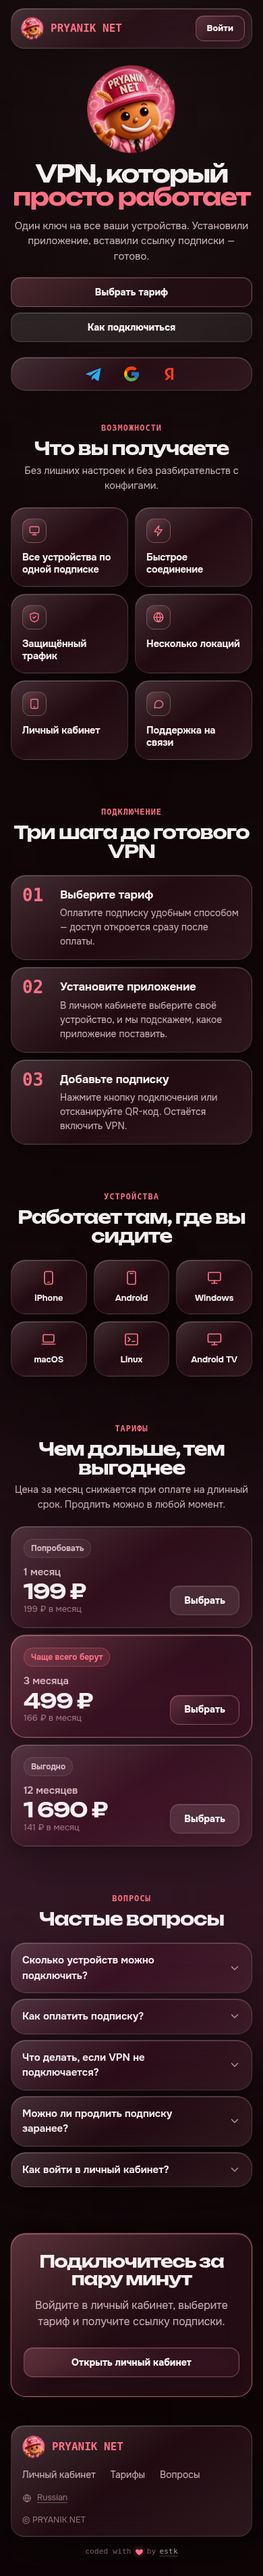
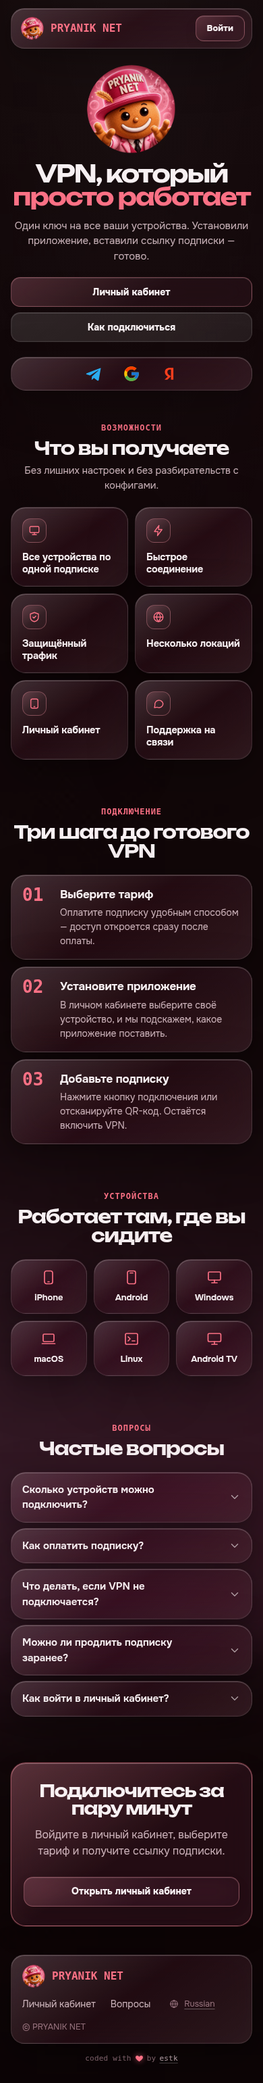
Remove pricing section from landing
Claude-Session: https://claude.ai/code/session_01LoewjAg2RbUAqsVYzxWfXA

diff --git a/pryanik-vpn/index.html b/pryanik-vpn/index.html
@@ -26,7 +26,6 @@
         <a href="#features">Возможности</a>
         <a href="#how">Подключение</a>
         <a href="#devices">Устройства</a>
-        <a href="#plans">Тарифы</a>
         <a href="#faq">Вопросы</a>
       </nav>
       <a class="btn btn-sm btn-primary" href="https://web.pryanik.net.pl/">Войти</a>
@@ -42,7 +41,7 @@
     <h1>VPN, который <em>просто работает</em></h1>
     <p class="lead">Один ключ на все ваши устройства. Установили приложение, вставили ссылку подписки — готово.</p>
     <div class="hero-actions">
-      <a class="btn btn-primary" href="#plans">Выбрать тариф</a>
+      <a class="btn btn-primary" href="https://web.pryanik.net.pl/">Личный кабинет</a>
       <a class="btn" href="#how">Как подключиться</a>
     </div>
     <p class="hero-note">Личный кабинет — через Telegram, Google или Яндекс</p>
@@ -164,54 +163,6 @@
   </div>
 </section>
 
-<section id="plans">
-  <div class="wrap">
-    <div class="head">
-      <div class="eyebrow">Тарифы</div>
-      <h2>Чем дольше, тем выгоднее</h2>
-      <p>Цена за месяц снижается при оплате на длинный срок. Продлить можно в любой момент.</p>
-    </div>
-    <div class="plans">
-      <article class="card hover plan">
-        <span class="tag">Попробовать</span>
-        <h3>1 месяц</h3>
-        <div class="price">199 ₽</div>
-        <div class="per">199 ₽ в месяц</div>
-        <ul>
-          <li><svg viewBox="0 0 24 24"><path d="m5 12 4.5 4.5L19 7"/></svg>Все устройства</li>
-          <li><svg viewBox="0 0 24 24"><path d="m5 12 4.5 4.5L19 7"/></svg>Все локации</li>
-          <li><svg viewBox="0 0 24 24"><path d="m5 12 4.5 4.5L19 7"/></svg>Поддержка</li>
-        </ul>
-        <a class="btn" href="https://web.pryanik.net.pl/">Выбрать</a>
-      </article>
-      <article class="card plan card-active">
-        <span class="tag">Чаще всего берут</span>
-        <h3>3 месяца</h3>
-        <div class="price">499 ₽</div>
-        <div class="per">166 ₽ в месяц</div>
-        <ul>
-          <li><svg viewBox="0 0 24 24"><path d="m5 12 4.5 4.5L19 7"/></svg>Все устройства</li>
-          <li><svg viewBox="0 0 24 24"><path d="m5 12 4.5 4.5L19 7"/></svg>Все локации</li>
-          <li><svg viewBox="0 0 24 24"><path d="m5 12 4.5 4.5L19 7"/></svg>Поддержка</li>
-        </ul>
-        <a class="btn btn-primary" href="https://web.pryanik.net.pl/">Выбрать</a>
-      </article>
-      <article class="card hover plan">
-        <span class="tag">Выгодно</span>
-        <h3>12 месяцев</h3>
-        <div class="price">1 690 ₽</div>
-        <div class="per">141 ₽ в месяц</div>
-        <ul>
-          <li><svg viewBox="0 0 24 24"><path d="m5 12 4.5 4.5L19 7"/></svg>Все устройства</li>
-          <li><svg viewBox="0 0 24 24"><path d="m5 12 4.5 4.5L19 7"/></svg>Все локации</li>
-          <li><svg viewBox="0 0 24 24"><path d="m5 12 4.5 4.5L19 7"/></svg>Поддержка</li>
-        </ul>
-        <a class="btn" href="https://web.pryanik.net.pl/">Выбрать</a>
-      </article>
-    </div>
-  </div>
-</section>
-
 <section id="faq">
   <div class="wrap">
     <div class="head">
@@ -266,7 +217,6 @@
       </a>
       <nav aria-label="Ссылки">
         <a href="https://web.pryanik.net.pl/">Личный кабинет</a>
-        <a href="#plans">Тарифы</a>
         <a href="#faq">Вопросы</a>
       </nav>
       <span class="lang">

diff --git a/pryanik-vpn/style.css b/pryanik-vpn/style.css
@@ -199,23 +199,6 @@ section{padding:72px 0}
 .device h3{font-size:14px}
 .device span{display:block;margin-top:2px;font-size:12px;color:var(--dim)}
 
-/* plans */
-.plans{display:grid;grid-template-columns:repeat(3,1fr);gap:14px;align-items:stretch}
-.plan{display:flex;flex-direction:column;padding:26px}
-.plan .tag{
-  align-self:flex-start;margin-bottom:18px;padding:4px 10px;border-radius:999px;font-size:12px;font-weight:700;color:var(--muted);
-  border:1px solid var(--lg-line-soft);background:rgba(255,255,255,.05);
-}
-.plan.card-active .tag{color:var(--accent);border-color:color-mix(in srgb,var(--accent) 34%,transparent);background:color-mix(in srgb,var(--accent) 12%,transparent)}
-.plan h3{font-size:15px;font-weight:600;color:var(--muted)}
-.price{margin:6px 0 4px;font-family:var(--font-display);font-weight:650;letter-spacing:-.05em;font-size:40px;line-height:1.05}
-.price small{font-family:var(--font-sans);font-weight:500;font-size:15px;letter-spacing:0;color:var(--dim)}
-.per{font-size:13px;color:var(--dim)}
-.plan ul{display:grid;gap:10px;margin:22px 0 26px;padding-top:22px;border-top:1px solid var(--lg-line-soft);font-size:14.5px;color:var(--muted)}
-.plan li{display:flex;gap:10px;align-items:flex-start}
-.plan li svg{flex:0 0 18px;width:18px;height:18px;margin-top:2px;stroke:var(--success);fill:none;stroke-width:2;stroke-linecap:round;stroke-linejoin:round}
-.plan .btn{margin-top:auto;width:100%}
-
 /* faq */
 .faq{display:grid;gap:10px;max-width:760px}
 .faq details{padding:0}
@@ -249,7 +232,7 @@ footer{padding:28px 0 48px}
 .copy{width:100%;font-size:12.5px;color:var(--dim)}
 
 @media (max-width:900px){
-  .grid-3,.plans,.steps{grid-template-columns:1fr}
+  .grid-3,.steps{grid-template-columns:1fr}
   .devices{grid-template-columns:repeat(3,1fr)}
   .nav{display:none}
   .header .btn{margin-left:auto}
@@ -285,13 +268,12 @@ footer{padding:28px 0 48px}
 .js .reveal{opacity:0;transform:translate3d(0,22px,0);transition:opacity .7s var(--lg-ease-soft),transform .7s var(--lg-ease),border-color var(--lg-motion) var(--lg-ease-soft),box-shadow var(--lg-slow) var(--lg-ease-soft),filter var(--lg-motion) var(--lg-ease-soft);transition-delay:var(--d,0ms)}
 .js .reveal.in{opacity:1;transform:none}
 .js .reveal.in.hover:hover{transform:translateY(-1px);transition-delay:0ms}
-.plan.card-active{animation:pulse 4.5s ease-in-out infinite}
 .device svg,.ico svg{transition:transform var(--lg-motion) var(--lg-ease)}
 .device:hover svg,.feature:hover .ico svg{transform:translateY(-2px) scale(1.08)}
 .faq details>p{animation:rise .35s var(--lg-ease) both}
 
 @media (prefers-reduced-motion:reduce){
-  .scene::before,.hero-mark,.hero h1,.hero .lead,.hero-actions,.hero-note,.providers,.header .bar,.plan.card-active,.faq details>p{animation:none}
+  .scene::before,.hero-mark,.hero h1,.hero .lead,.hero-actions,.hero-note,.providers,.header .bar,.faq details>p{animation:none}
   .js .reveal{opacity:1;transform:none;transition:none}
 }
 
@@ -333,15 +315,6 @@ footer{padding:28px 0 48px}
   .device svg{width:24px;height:24px;margin-bottom:8px}
   .device h3{font-size:13px}
   .device span{display:none}
-
-  .plans{gap:10px}
-  .plan{padding:18px;display:grid;grid-template-columns:1fr auto;align-items:center;column-gap:14px}
-  .plan .tag{grid-column:1/3;justify-self:start;margin-bottom:10px}
-  .plan h3{grid-column:1}
-  .plan .price{grid-column:1;font-size:30px;margin:2px 0 0}
-  .plan .per{grid-column:1}
-  .plan ul{display:none}
-  .plan .btn{grid-column:2;grid-row:2/5;width:auto;min-height:44px;padding:0 20px}
 
   .faq{gap:8px}
   .faq summary{padding:14px 16px;font-size:15px}

diff --git a/pryanik-vpn/script.js b/pryanik-vpn/script.js
@@ -1,5 +1,5 @@
 (function () {
-  var groups = ['.head', '.feature', '.step', '.device', '.plan', '.faq details', '.cta'];
+  var groups = ['.head', '.feature', '.step', '.device', '.faq details', '.cta'];
   var els = [];
   groups.forEach(function (sel) {
     document.querySelectorAll(sel).forEach(function (el, i) {
